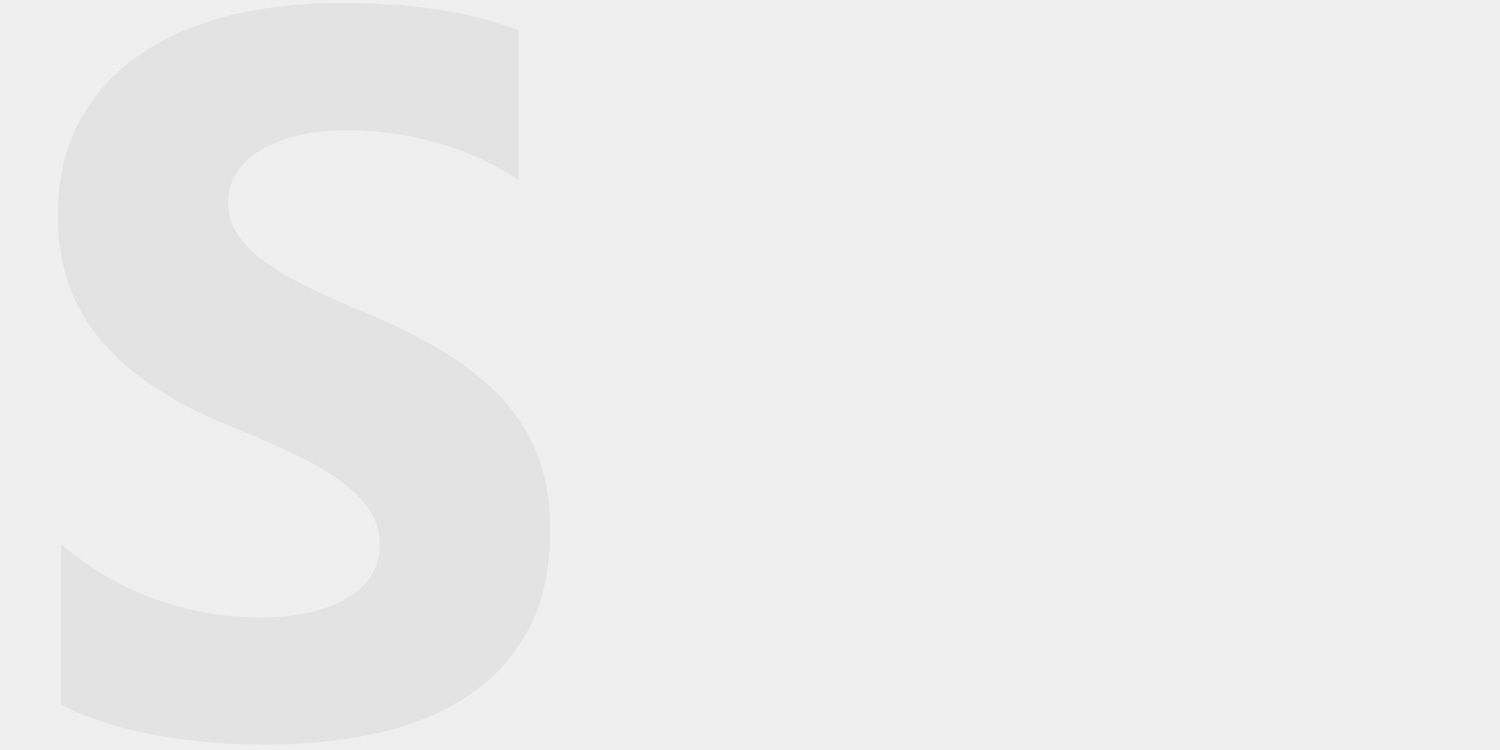
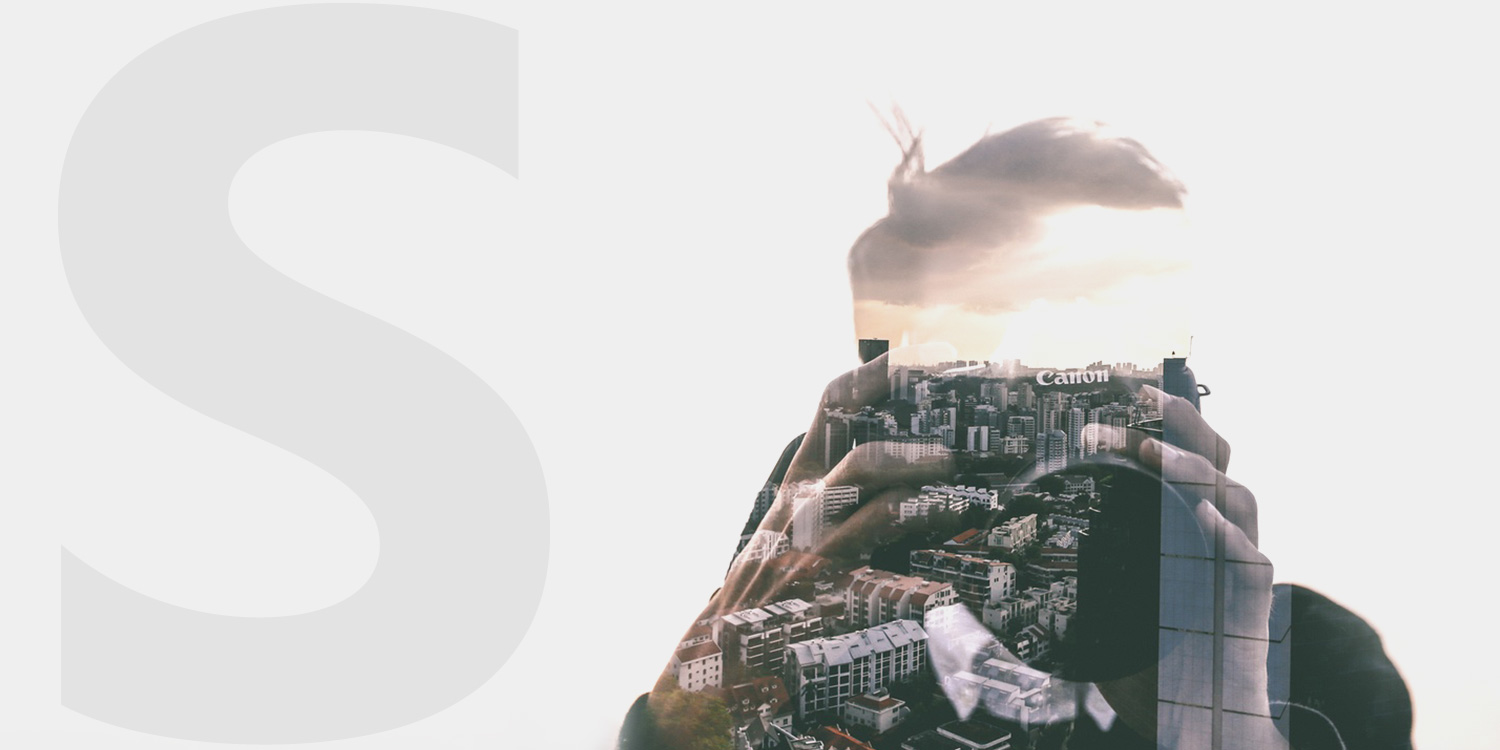
first edition

Changed region(s): [[0.3987, 0.1533, 0.9507, 1.0]]

diff --git a/silver/index.html b/silver/index.html
@@ -1,10 +1,10 @@
 <!doctype html>
 <html>
 	<head>
-		<title>Home</title>
+		<title>Silver's Page</title>
 		<meta name="viewport" content="width=device-width, initial-scale=1">
 		<meta http-equiv="Content-Type" content="text/html; charset=utf-8" />
-		<meta name="keywords" content="Play-Offs Responsive web template, Bootstrap Web Templates, Flat Web Templates, Andriod Compatible web template, Smartphone Compatible web template, free webdesigns for Nokia, Samsung, LG, SonyErricsson, Motorola web design" />
+		<meta name="keywords" content="Silver Silver Blog Play-Offs Responsive web template, Bootstrap Web Templates, Flat Web Templates, Andriod Compatible web template, Smartphone Compatible web template, free webdesigns for Nokia, Samsung, LG, SonyErricsson, Motorola web design" />
 
 		<script type="application/x-javascript"> addEventListener("load", function() {setTimeout(hideURLbar, 0); }, false); function hideURLbar(){ window.scrollTo(0,1); } </script>
 		<!meta charset utf="8">
@@ -59,36 +59,28 @@
 					<!-- Top Navigation -->
 					<div class="container page-seperator">
 					<section class="color bgi">
-						<h3>Lorem Ipsum Simply A Dummy Text To Format Fonts And Paragraphs.</h3>
-							<p>lorem ipsum simply a dummy text to format fonts and paragraphs,consectetuer adipiscing elit, sed diam </p>
-						<button type="button" class="btn btn-warning but1">Read more</button>
+						<div class="left">
+						<h3>策划既是出来卖的<br>更是技术活</h3>
+						<p>我写策划案也没有那么用心，心思都放在窥探用户的心理上了，还把产品特点写了下来而已。</p>
+						<a type="button" href="#contact-me" name="contact-me1" class="btn btn-warning but1">Contact Me</a>
+						</div>
 					</section>
-					<section class="col-3 ss-style-doublediagonal our-features">
-							<h1>our features</h1>
-							<p>lorem ipsum simply a dummy text to format fonts and paragraphs</p>
-							<div class="column our-feat">
-								<span class="glyphicon glyphicon-road our-icons" aria-hidden="true"></span>
-								<h3>Lorem ipsum</h3>
-								<p>Lorem Ipsum is simply dummy<br>text of the printing and typesetting </p>
-							</div>
-							<div class="column our-feat">
-								<span class="glyphicon glyphicon-phone our-icons" aria-hidden="true"></span>
-								<h3>Lorem ipsum</h3>
-								<p>Lorem Ipsum is simply dummy<br> text of the printing and typesetting </p>
-							</div>
-							<div class="column our-feat">
-								<span class="glyphicon glyphicon-scale our-icons" aria-hidden="true"></span>
-								<h3>Lorem ipsum</h3>
-								<p>Lorem Ipsum is simply dummy<br>text of the printing and typesetting </p>
-							</div>
-							<div class="clearfix"></div>
+					<section class="col-3 ss-style-doublediagonal our-features nopadding">
+					<div class="about-me">
+					<div class="right">
+							<h3> 关于我</h3>
+							<p>我一直相信自己是一个幸运的孩子。至少我是享受着当下的生活的，也粗略按照着我那粗略的方向前进，我也深知我能力还远远不足以让我hold住一切问题，但我既不生活在过去，也不生活在未来，我只有现在，它才是我感兴趣的。不忘初心，永远挑战自我。<br><br>
+							我就是高翠银(Silver)，虚心，自学能力强，具备独立的思考能力；脑洞大，组织策划能力优秀，综合沟通能力强；热爱影视创作，喜欢策划；为了完成任务，通宵达旦，任劳任怨；有较好的团队协作精神，能快速适应新的工作环境。</p>
+					</div>
+					<div class="clearfix"></div>
+					</div>
 					</section>
 					</div>
 			</div>
 			<div class="our-work" id="our-work">
 				<div class="container">
-					<h2>our work</h2>
-					<p>lorem ipsum simply a dummy text to format fonts and paragraphs</p>
+					<h2>摄影集</h2>
+					<p></p>
 						<div class="gallery-bottom">
 							<div class="col-md-4 bottom-gallery">
 								<a href="./images/IMG_3.jpg" rel="title" class="b-link-stripe b-animate-go  thickbox">
@@ -123,39 +115,7 @@
 								</div>
 								</a>
 							</div>
-							<div class="col-md-4 bottom-gallery">
-								<a href="images/IMG_2.jpg" rel="title" class="b-link-stripe b-animate-go  thickbox">
-								<img class="img-responsive" src="images/IMG_2.jpg" />
-								<div class="b-wrapper">
-									<h3 class="b-animate b-from-left    b-delay03 ">
-										<span class="txt">Lorem</span>
-										<span class="glyphicon glyphicon-arrow-right gal-icn" aria-hidden="true"></span>
-									</h3>
-								</div>
-								</a>
-							</div>
-							<div class="col-md-4 bottom-gallery">
-								<a href="images/IMG_4.jpg" rel="title" class="b-link-stripe b-animate-go  thickbox">
-								<img class="img-responsive" src="images/IMG_4.jpg" />
-								<div class="b-wrapper">
-									<h3 class="b-animate b-from-left    b-delay03 ">
-										<span class="txt">Lorem</span>
-										<span class="glyphicon glyphicon-arrow-right gal-icn" aria-hidden="true"></span>
-									</h3>
-								</div>
-								</a>
-							</div>
-							<div class="col-md-4 bottom-gallery">
-								<a href="images/IMG_6.jpg" rel="title" class="b-link-stripe b-animate-go  thickbox">
-								<img class="img-responsive" src="images/IMG_6.jpg" />
-								<div class="b-wrapper">
-									<h3 class="b-animate b-from-left    b-delay03 ">
-										<span class="txt">Lorem</span>
-										<span class="glyphicon glyphicon-arrow-right gal-icn" aria-hidden="true"></span>
-									</h3>
-								</div>
-								</a>
-							</div>
+							
 							<div class="clearfix"></div>
 							<script src="js/jquery.chocolat.js"></script>
 							<link rel="stylesheet" href="css/chocolat.css" type="text/css" media="screen" charset="utf-8">
@@ -171,25 +131,22 @@
 
             <section class="v">
 				<div class="container">
-				
+				<img src="./images/black.jpg">
 				</div>
 			</section>
-			<div class="social-feeds">
+			<div class="videoSection">
 			<div class="container">
+				<h2>视频作品库</h2>
 						<section id="dg-container" class="dg-container">
 							<div class="dg-wrapper">
-								<a href="#"><iframe class="video_iframe" style="z-index:1;" src="http://v.qq.com/iframe/player.html?vid=x03000hgdjr&amp;auto=0" allowfullscreen="" frameborder="0" width="482" height="316"></iframe><div>http://www.colazionedamichy.it/</div></a>
-								<a href="#"><iframe class="video_iframe" style="z-index:1;" src="http://v.qq.com/iframe/player.html?vid=x03000hgdjr&amp;auto=0" allowfullscreen="" frameborder="0" width="482" height="316"></iframe><div>http://www.percivalclo.com/</div></a>
-								<a href="#"><iframe class="video_iframe" style="z-index:1;" src="http://v.qq.com/iframe/player.html?vid=x03000hgdjr&amp;auto=0" allowfullscreen="" frameborder="0" width="482" height="316"></iframe><div>http://www.wanda.net/fr</div></a>
-			<!-- 					<a href="#"><img src="images/4.jpg" alt="image04"><div>http://lifeingreenville.com/</div></a>
-								<a href="#"><img src="images/5.jpg" alt="image05"><div>http://circlemeetups.com/</div></a>
-								<a href="#"><img src="images/6.jpg" alt="image06"><div>http://www.castirondesign.com/</div></a>
-								<a href="#"><img src="images/7.jpg" alt="image07"><div>http://www.foundrycollective.com/</div></a>
-								<a href="#"><img src="images/8.jpg" alt="image08"><div>http://www.mathiassterner.com/home</div></a>
-								<a href="#"><img src="images/9.jpg" alt="image09"><div>http://learnlakenona.com/</div></a>
-								<a href="#"><img src="images/10.jpg" alt="image10"><div>http://www.neighborhood-studio.com/</div></a> -->
-			<!-- 					<a href="#"><img src="images/11.jpg" alt="image11"><div>http://www.beckindesign.com/</div></a>
-								<a href="#"><img src="images/12.jpg" alt="image12"><div>http://kicksend.com/</div></a> -->
+								<a href="#"><iframe class="video_iframe" style="z-index:1;" src="http://v.qq.com/iframe/player.html?vid=c0301ufxl03&amp;auto=0" title="黑帮篇" allowfullscreen="" frameborder="0" width="100%" height="100%"></iframe><div>广告片《黑帮》王老吉广告参赛策划</div></a>
+								<a href="#"><iframe class="video_iframe" style="z-index:1;" src="http://v.qq.com/iframe/player.html?vid=u0195m3rf8k&amp;auto=0" title="愚人节" allowfullscreen="" frameborder="0" width="100%" height="100%"></iframe><div>2016愚人节策划</div></a>
+								<a href="#"><iframe class="video_iframe" style="z-index:1;" src="http://v.qq.com/iframe/player.html?vid=q0303e0jzku&amp;auto=0" title="总决赛宣传" allowfullscreen="" frameborder="0" width="100%" height="100%"></iframe><div>2016《中国好声音》广州赛区总决赛预热片</div></a>
+								<a href="#"><iframe class="video_iframe" style="z-index:1;" src="http://v.qq.com/iframe/player.html?vid=k01952ctixj&amp;auto=0" title="三八节" allowfullscreen="" frameborder="0" width="100%" height="100%"></iframe><div>2016三八节策划</div></a>
+								<a href="#"><iframe class="video_iframe" style="z-index:1;" src="http://v.qq.com/iframe/player.html?vid=g0301lob6ki&amp;auto=0" title="MG动画" allowfullscreen="" frameborder="0" width="100%" height="100%"></iframe><div>2015年微会看看产品宣传片制作</div></a>
+								<a href="#"><iframe class="video_iframe" style="z-index:1;" src="http://v.qq.com/iframe/player.html?vid=q0301psoh6s&amp;auto=0" title="反家暴" allowfullscreen="" frameborder="0" width="100%" height="100%"></iframe><div>毕设作品反家暴公益片担任副导演、后期</div></a>
+								<a href="#"><iframe class="video_iframe" style="z-index:1;" src="http://v.qq.com/iframe/player.html?vid=t0301cka894&amp;auto=0" title="530当家日" allowfullscreen="" frameborder="0" width="100%" height="100%"></iframe><div>2014年度《530女神当家日》宣传视频策划</div></a>
+								<a href="#"><iframe class="video_iframe" style="z-index:1;" src="http://v.qq.com/iframe/player.html?vid=n0199vuxntg&amp;auto=0" title="复赛预告LED15S" allowfullscreen="" frameborder="0" width="100%" height="100%"></iframe><div>2016《中国好声音》复赛预告片策划</div></a>
 							</div>
 							<nav>	
 								<span class="dg-prev">&lt;</span>
@@ -209,6 +166,16 @@
 						});
 					</script>
 			</div>
+
+			<section class="end">
+				<div name="contact-me" class="container">
+				<div class="right">
+					<p><a class="mail" href="Mailto:18826484115@163.com?CC=18826484115@163.com&BCC=18826484115@163.com&Subject=&Body=" style="color: black;">联系我：18826484115@163.com</a></p>
+					<img class="wechat" src="./images/wechat.png"/>
+				</div>
+				</div>
+				</div>
+			</section>
 			</div>
 			<a href="#home" id="toTop" class="scroll" style="display: block;"> <span id="toTopHover" style="opacity: 1;"> </span></a>
 	</body>

diff --git a/silver/css/style.css b/silver/css/style.css
@@ -170,7 +170,42 @@ span.glyphicon.glyphicon-search.edit {
     -moz-background-size: 100% 100%;
     -webkit-background-size: 100% 100%;
 }
+section .left{
+	padding-right: 40%;
+	margin-left: 15%;
+	text-align: left;
+}
+section .left h3{
+}
+
 /*--our-features--*/
+section.nopadding{
+	padding: 0em 0% !important;
+}
+.about-me {
+	z-index: 1;
+	/*padding-top: 1em;*/
+	background: url(../images/2.jpg);
+	text-align: center;
+	min-height:750px;
+/*	background-size: 100% 100%;
+    -moz-background-size: 100% 100%;
+    -webkit-background-size: 100% 100%;*/
+}
+.about-me .right{
+	padding-top: 15%;
+	padding-right: 10%;
+	margin-left: 50%;
+	text-align: left;
+
+}
+.about-me .right h3{
+	color: #0B0354;
+	font-size: 3em;
+	font-family: 'Jockey One', sans-serif;
+	margin-bottom: 0.5em;
+}
+
 .bgi h3 {
 	color: #0B0354;
 	font-size: 3em;
@@ -372,6 +407,16 @@ section::after {
 	padding: 0 !important;
 	font-family: 'OpenSans-Regular';
 }
+
+.our-work h2 {
+	font-family: 'Jockey One', sans-serif;
+	font-weight: 100;
+	color: #000;
+	font-size: 3em;
+	text-transform: capitalize;
+	margin: 0px 0px 15px 0px;
+}
+
 /*--our-gallery--*/
 .bottom-gallery {
 	margin-bottom: 55px;
@@ -522,6 +567,42 @@ section.v {
     -moz-background-size: 100% 100%;
     -webkit-background-size: 100% 100%;
 }
+.v img {
+	width: 40%;
+	height: auto;
+	margin-left: 50%;
+	margin-top: 10%; 
+}
+
+
+
+section.end {
+	background: url(../images/6.jpg);
+	padding: 0em 0em !important;
+	text-align: center;
+	min-height: 700px;
+	width: 100%;
+	background-size: 100% 100%;
+    -moz-background-size: 100% 100%;
+    -webkit-background-size: 100% 100%;
+}
+.end .right {
+	margin-left: 40%;
+	margin-top: 40%;
+}
+.end img {
+	width: 30%;
+	height: auto;
+}
+
+a.mail {
+	
+}
+
+img.wechat{
+
+}
+
 .banner-info h3 {
 	font-family: 'Jockey One', sans-serif;
 	font-weight: 300;
@@ -664,14 +745,24 @@ ul.wmuSliderPagination {
 	z-index: 2;
 	cursor: pointer;
 }
-/*--social-feeds starts here--*/
-.social-feeds{
+/*--videoSection starts here--*/
+.videoSection{
 	background:url(../images/5.jpg);
 	background-size:cover;
 	min-height: 750px;
 	width: 100%;
 	padding-top:6em;
+	text-align: center;
 }
+.videoSection h2{
+	font-family: 'Jockey One', sans-serif;
+	font-weight: 100;
+	color: #000;
+	font-size: 3em;
+	text-transform: capitalize;
+	margin: 0px 0px 15px 0px;
+}
+
 .bottom-slide {
 	text-align: center;
 }

diff --git a/silver/3dgallery/style.css b/silver/3dgallery/style.css
@@ -41,7 +41,6 @@
 	padding: 41px 0px 0px 1px;
 }
 .dg-wrapper a div{
-	font-style: italic;
 	text-align: center;
 	line-height: 50px;
 	text-shadow: 1px 1px 1px rgba(255,255,255,0.5);
